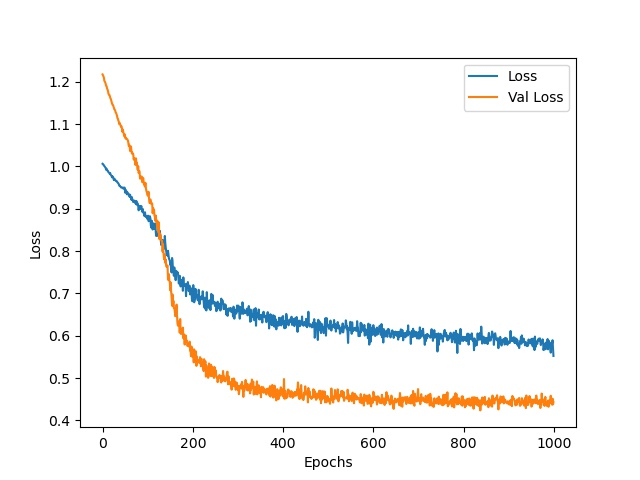
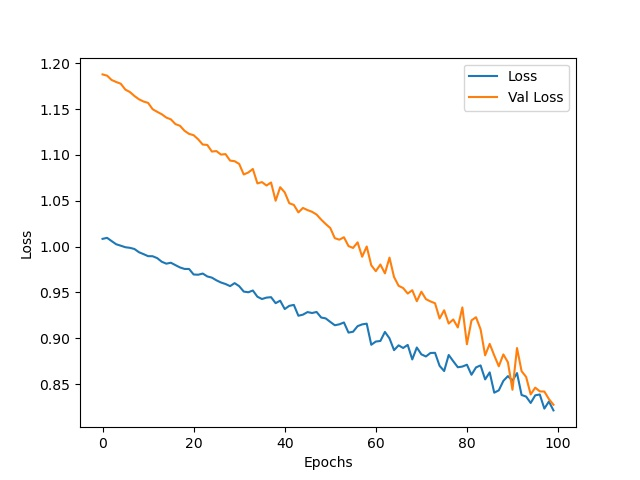
Update

diff --git a/prediction_for_lily_price_and_volume/train.py b/prediction_for_lily_price_and_volume/train.py
@@ -10,8 +10,8 @@ from tqdm import tqdm
 import matplotlib.pyplot as plt
 import os
 
-# #OMP: Error #15: Initializing libiomp5md.dll, but found libiomp5md.dll already initialized.
-# os.environ["KMP_DUPLICATE_LIB_OK"]="TRUE"
+#OMP: Error #15: Initializing libiomp5md.dll, but found libiomp5md.dll already initialized.
+os.environ["KMP_DUPLICATE_LIB_OK"]="TRUE"
 
 path_csv = r'D:\dataset\lilium_price\108\FS443.csv'
 cloumn = ['最高價', '上價']
@@ -27,11 +27,11 @@ for col in cloumn:
 # 正歸化
 train = np.array(train_df)
 val = np.array(val_df)
-# mean =  np.mean(train,axis=0)
-# std = np.std(train,axis=0)
+mean =  np.mean(train,axis=0)
+std = np.std(train,axis=0)
 
-# train = (train -mean) / std
-# val = (val - mean) /std
+train = (train -mean) / std
+val = (val - mean) /std
 
 # to tensor
 train = torch.Tensor(train)
@@ -42,8 +42,8 @@ valnset = utils.Setloader(val, n, len(cloumn))
 # train
 batch_size = 100
 LR = 0.0001
-num_epochs = 1000
-model = model.RNN_model(n)
+num_epochs = 10000
+model = model.RNN_model(n*len(cloumn), num_feature=len(cloumn))
 # 選擇優化器與損失函數
 optimizer = torch.optim.Adam(model.parameters(), lr=LR) 
 criterion = nn.MSELoss()
@@ -102,10 +102,10 @@ for epoch in range(num_epochs):
     val_loss_list.append(val_loss)
     print('train_loss: {}, valid_loss: {}'.format(loss, val_loss) )
     #每10個epochs及最後一個epoch儲存模型
-    if (not epoch % 10) or (epoch == num_epochs)  :
+    if (not epoch % 100) or (epoch == num_epochs)  :
         torch.save(model.state_dict(), './logs/epoch%d-loss%d-val_loss%.4f.pth' %
         (epoch, loss, val_loss))
-print('mean: %.4f std: %.4f'%(mean,std))
+print('mean: %.4f std: %.4f'%(mean[0],std[0]))
 
 #繪製圖
 plt.figure()

diff --git a/prediction_for_lily_price_and_volume/utils.py b/prediction_for_lily_price_and_volume/utils.py
@@ -40,8 +40,9 @@ class Setloader(Dataset):
             else:
                 # print(data[:, ((n+1)*i):(n*i+1)].float())
                 all_data = np.concatenate((all_data, data[:, (n+1)*i:n*(i+1)+1].float()), axis=1)
-                all_label =np.vstack((all_label,all_label, data[:, (n+1)*(i+1)-1].float()))
-        print(all_label)
+                all_label =np.vstack((all_label, data[:, (n+1)*(i+1)-1].float()))
+                all_label =all_label.T
+
         self.data = all_data
         self.label = all_label
     def __getitem__(self, index):

diff --git a/prediction_for_lily_price_and_volume/net/model.py b/prediction_for_lily_price_and_volume/net/model.py
@@ -1,7 +1,7 @@
 import torch.nn as nn
 
 class RNN_model(nn.Module):
-    def __init__(self, input_size):
+    def __init__(self, input_size, num_feature):
         super(RNN_model, self).__init__()
         self.rnn = nn.LSTM(
             input_size=input_size,
@@ -10,7 +10,7 @@ class RNN_model(nn.Module):
             batch_first=True
         )
         self.out = nn.Sequential(
-            nn.Linear(64, 1)
+            nn.Linear(64, num_feature)
         )
 
     def forward(self, x):
